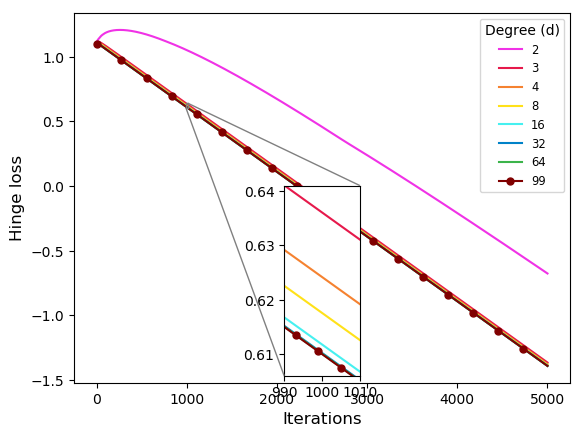
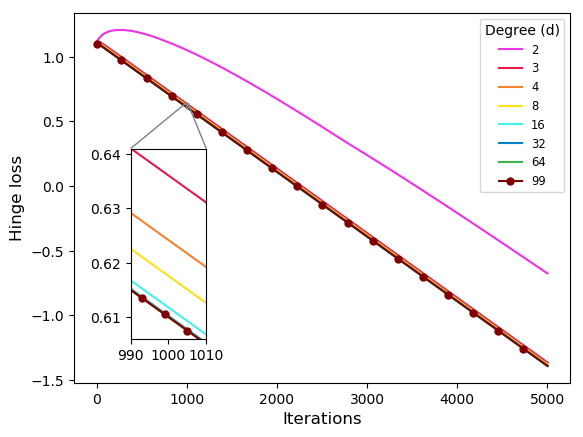
Fix bug in simulator when running on multieigvecsvm with clique

diff --git a/main.py b/main.py
@@ -80,25 +80,79 @@ def run(core=-1):
         test_on_eigvecsvm_dataset(seed=22052010, graph_type='alt_expander', n=100, distr='exp', metrics_nodes='worst',
             alt_exp=True, alert=False)
     elif core == 9:
-        test_on_multieigvecsvm_dataset(seed=22052010, n=100, n_samples=2, distr='par', metrics_nodes='all')
+        test4_on_multieigvecsvm_dataset(seed=22052010, n=100, n_samples=2, distr='par', metrics_nodes='worst')
     elif core == 10:
-        test_on_multieigvecsvm_dataset(seed=22052010, n=100, n_samples=2, distr='exp', metrics_nodes='all')
+        test4_on_multieigvecsvm_dataset(seed=22052010, n=100, n_samples=10, distr='par', metrics_nodes='worst')
     elif core == 11:
-        test_on_multieigvecsvm_dataset(seed=22052010, n=100, n_samples=2, distr='unif', metrics_nodes='all')
+        test4_on_multieigvecsvm_dataset(seed=22052010, n=100, n_samples=100, distr='par', metrics_nodes='worst')
     elif core == 12:
-        test_on_multieigvecsvm_dataset(seed=22052010, n=100, n_samples=10, distr='par', metrics_nodes='all')
+        test5_on_multieigvecsvm_dataset(seed=22052010, n=100, n_samples=2, distr='par', metrics_nodes='worst')
     elif core == 13:
-        test_on_multieigvecsvm_dataset(seed=22052010, n=100, n_samples=10, distr='exp', metrics_nodes='all')
+        test5_on_multieigvecsvm_dataset(seed=22052010, n=100, n_samples=10, distr='par', metrics_nodes='worst')
     elif core == 14:
-        test_on_multieigvecsvm_dataset(seed=22052010, n=100, n_samples=10, distr='unif', metrics_nodes='all')
-    elif core == 15:
-        test_on_multieigvecsvm_dataset(seed=22052010, n=100, n_samples=100, distr='par', metrics_nodes='all')
-    elif core == 16:
-        test_on_multieigvecsvm_dataset(seed=22052010, n=100, n_samples=100, distr='exp', metrics_nodes='all')
-    elif core == 17:
-        test_on_multieigvecsvm_dataset(seed=22052010, n=100, n_samples=100, distr='unif', metrics_nodes='all')
+        test5_on_multieigvecsvm_dataset(seed=22052010, n=100, n_samples=100, distr='par', metrics_nodes='worst')
 
-def test_on_multieigvecsvm_dataset(seed=None, n=100, n_samples=2, distr='par', metrics_nodes='all', alert=False):
+def test5_on_multieigvecsvm_dataset(seed=None, n=100, n_samples=2, distr='par', metrics_nodes='all', alert=False):
+    if alert:
+        print('test_exp_on_unisvm_dataset()')
+        print('n={}, distr={}, metrics_nodes={}'.format(n, distr, metrics_nodes))
+        input("click [ENTER] to continue or [CTRL]+[C] to abort")
+
+    time_distr_class = {
+        'exp': statistics.ExponentialDistribution, 'unif': statistics.UniformDistribution,
+        'par': statistics.Type2ParetoDistribution
+    }[distr]
+    time_distr_param = {'exp': [[1]], 'unif': [[0, 2]], 'par': [[3, 2]], }[distr]
+    if metrics_nodes in ['worst', 'all']:
+        metrics_type = {'worst': 2, 'all': 0, 'best': 2}[metrics_nodes]
+    else:
+        metrics_type = 2
+
+    simulator.run(
+        seed=seed,
+        n=n,
+        n_samples=n_samples,
+        graphs=get_graphs('expander', n),
+        dataset='multieigvecsvm',
+        starting_weights_domain=[1, 1],
+        smv_label_flip_prob=0.00,
+        max_iter=5000,
+        max_time=None,
+        alpha=1e-1,
+        learning_rate='constant',
+        spectrum_dependent_learning_rate=False,
+        time_distr_class=time_distr_class,
+        time_distr_param=time_distr_param,
+        obj_function='hinge_loss',
+        epsilon=-math.inf,
+        average_model_toggle=True,
+        metrics=[],
+        metrics_type=metrics_type,
+        metrics_nodes=metrics_nodes,
+        shuffle=False,
+        save_test_to_file=True,
+        test_folder_name_struct=[
+            'test5',
+            'dataset',
+            'samp',
+            'alpha',
+            'nodes',
+            #'shuffle',
+            'w_domain',
+            'distr',
+            #'time',
+            'iter',
+            #'metrics'
+        ],
+        test_parent_folder="",
+        instant_plot=False,
+        plots=['hinge_loss_iter', 'hinge_loss_time'],
+        save_plot_to_file=False,
+        plot_global_w=False,
+        plot_node_w=False
+    )
+
+def test4_on_multieigvecsvm_dataset(seed=None, n=100, n_samples=2, distr='par', metrics_nodes='all', alert=False):
     if alert:
         print('test_exp_on_unisvm_dataset()')
         print('n={}, distr={}, metrics_nodes={}'.format(n, distr, metrics_nodes))

diff --git a/generate_paper2_figures.py b/generate_paper2_figures.py
@@ -4,6 +4,22 @@ from mpl_toolkits.axes_grid1.inset_locator import zoomed_inset_axes, mark_inset
 
 from src.utils import *
 
+"""
+Location Legend:
+'best'	        0
+'upper right'	1
+'upper left'	2
+'lower left'	3
+'lower right'	4
+'right'	        5
+'center left'	6
+'center right'	7
+'lower center'	8
+'upper center'	9
+'center'	    10
+"""
+
+
 SMALL_SIZE = 10
 MEDIUM_SIZE = 12
 BIGGER_SIZE = 14
@@ -242,6 +258,7 @@ def plot_dataset_nodes_distr_err_vs_iter(test, dataset, n, logs, setup, save=Fal
     zoom_scale = 3
     legend_loc = 0
     markevery = 0.05
+    bbox_to_anchor = False
     if dataset == 'eigvecsvm':
         if test == 'test2':
             x1, x2 = 990, 1010
@@ -255,17 +272,32 @@ def plot_dataset_nodes_distr_err_vs_iter(test, dataset, n, logs, setup, save=Fal
             x1, x2 = 990, 1010
             y1, y2 = 0.606, 0.641
             legend_loc = 1
-            zoom_loc = 8
+            zoom_loc = 3
             zoom_region = True
             zoom_scale = 42
             markevery = 0.05
             loc1=1
-            loc2=3
+            loc2=2
+            bbox_to_anchor = (0.1,0.1)
+
 
 
     axins = None
     if zoom_region:
-        axins = zoomed_inset_axes(ax, zoom_scale, loc=zoom_loc)
+        if bbox_to_anchor is False:
+            axins = zoomed_inset_axes(
+                ax,
+                zoom_scale,
+                loc=zoom_loc
+            )
+        else:
+            axins = zoomed_inset_axes(
+                ax,
+                zoom_scale,
+                loc=zoom_loc,
+                bbox_to_anchor=bbox_to_anchor,
+                bbox_transform=ax.transAxes
+            )
 
     for graph, loss in logs['metrics'][setup['obj_function']].items():
         deg = degree_from_label(graph)

diff --git a/simulator.py b/simulator.py
@@ -475,7 +475,7 @@ Summary:
                         )
                     elif setup['dataset'] == 'multieigvecsvm':
                         X, y, w = datasets.multieigvecsvm_dataset_from_expander(
-                            setup['n_samples'], setup['n'], max_deg_adjmat)
+                            setup['n_samples'], setup['n'], max_deg)
                 else:
                     if setup['dataset'] == 'eigvecsvm':
                         X, y, w = datasets.eigvecsvm_dataset_from_adjacency_matrix(adjmat)

diff --git a/src/mltoolbox/metrics.py b/src/mltoolbox/metrics.py
@@ -46,7 +46,7 @@ class HingeLossFunction(LossFunctionAbstract):
     @staticmethod
     def compute_gradient(X, y, w):
         h = HingeLossFunction.compute_value(X, y, w)
-        return np.sum(((-y * X.T) * np.sign(h)).T, axis=0)
+        return ((-y * X.T) * np.sign(h)).T
 
     @staticmethod
     def compute_gradient2(X, y, w):
